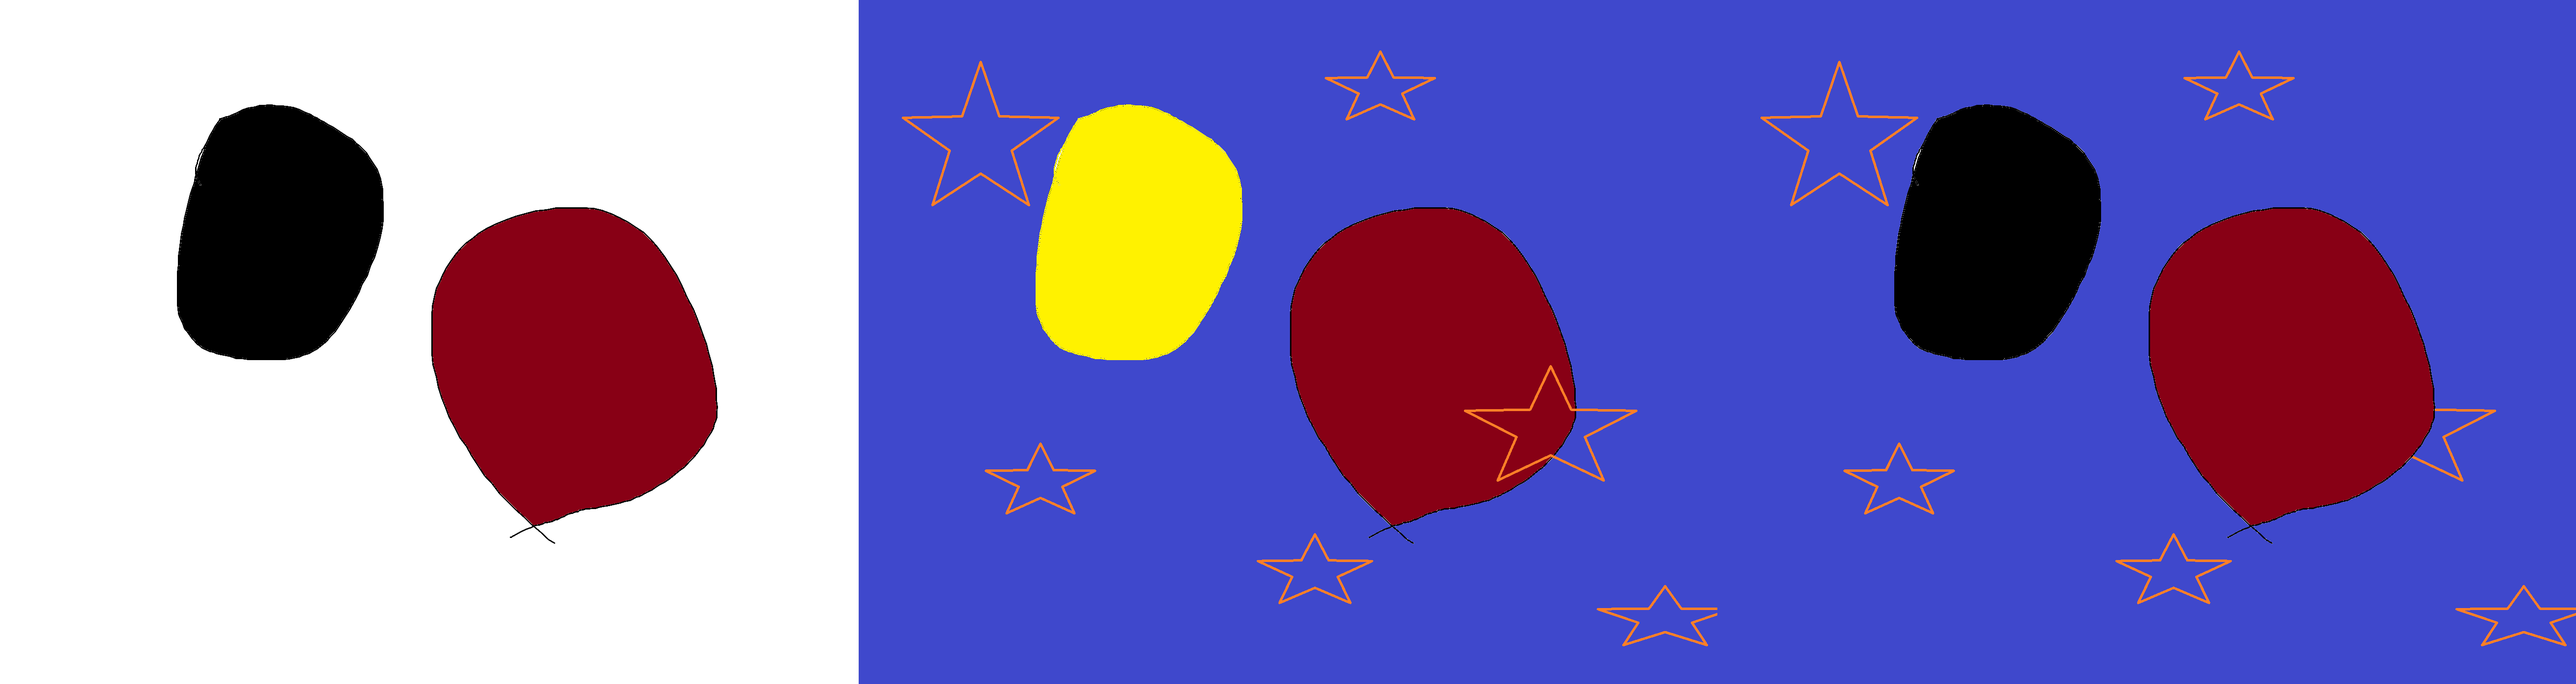
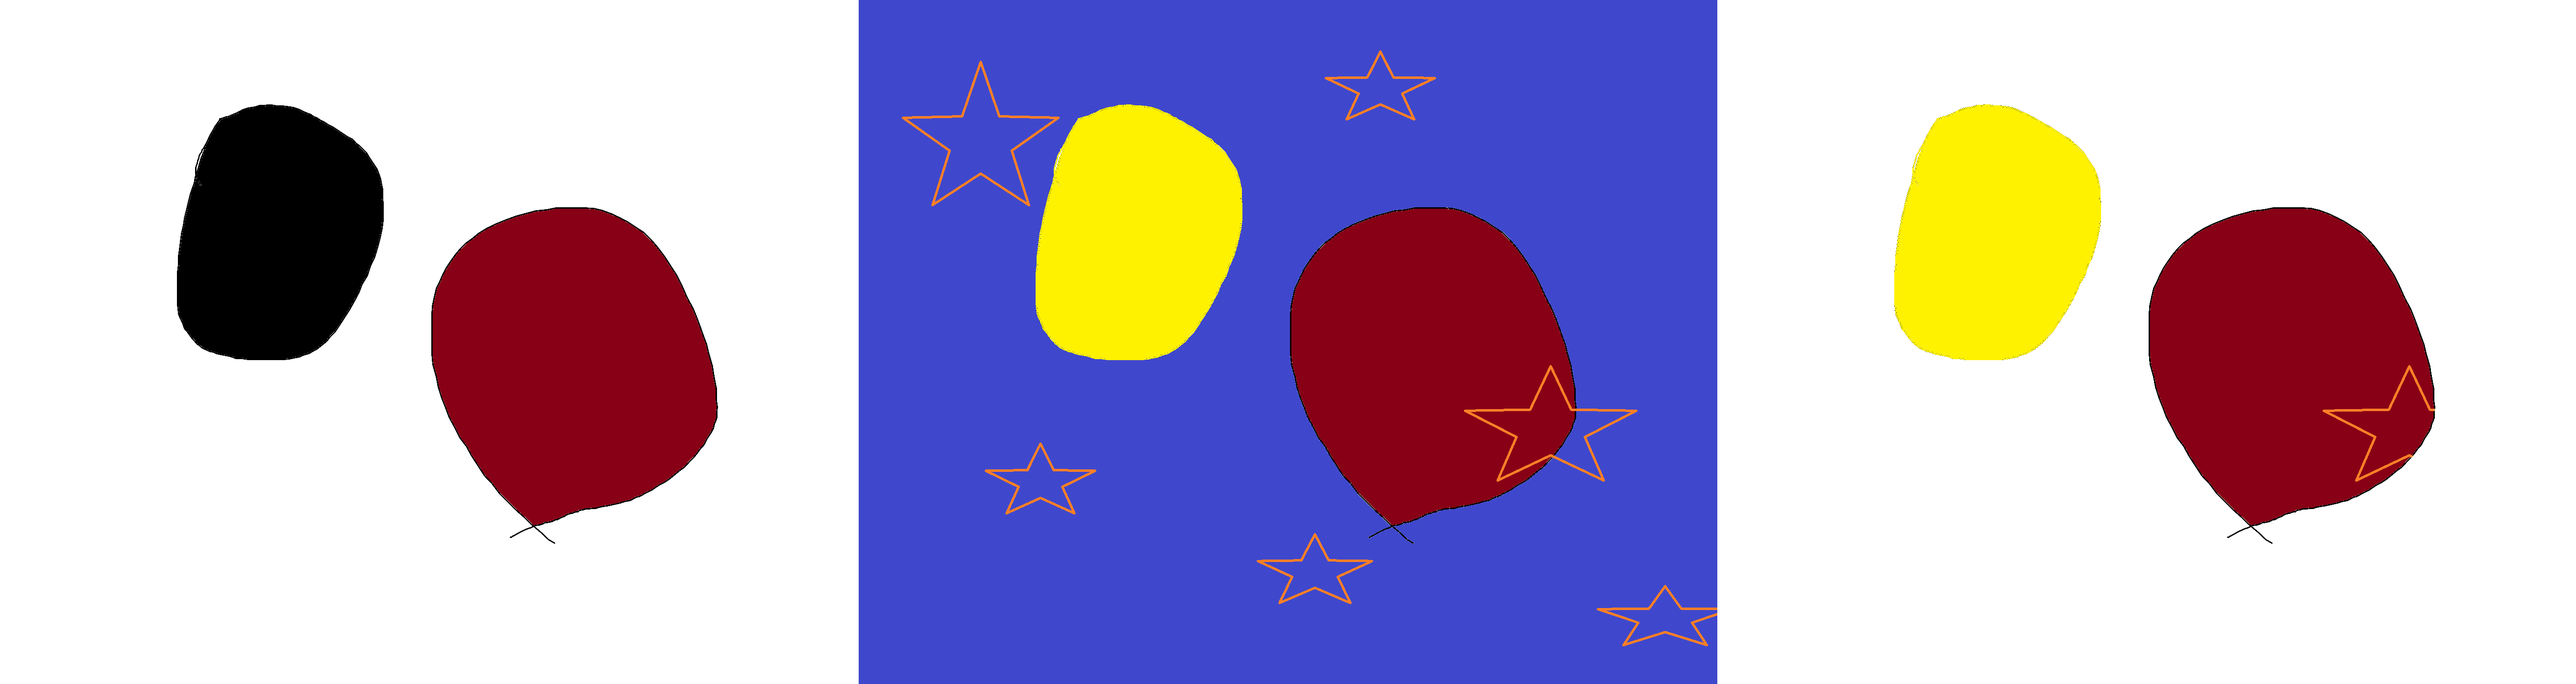
lab1

Changed region(s): [[0.6553, 0.0, 1.0, 1.0]]

diff --git a/lab1/README.md b/lab1/README.md
@@ -39,6 +39,30 @@ C(x, y) = A(x, y), если M(x, y) = 0
 
 Обе реализации получают одинаковые изображения и границы цвета. Второе изображение заранее приводится к ширине и высоте первого через `cv2.resize`. При разных пропорциях оно растягивается. Готовые результаты и маски проверяются на полное совпадение через `np.array_equal`.
 
+Реализация
+```
+def chroma_key_opencv(foreground, background, lower, upper):
+    mask = cv2.inRange(foreground, np.array(lower, dtype=np.uint8),
+                       np.array(upper, dtype=np.uint8))
+    result = foreground.copy()
+    cv2.copyTo(background, mask, result)
+    return result, mask
+
+
+def chroma_key_python(foreground, background, lower, upper):
+    height, width = foreground.shape[:2]
+    result = foreground.copy()
+    mask = np.zeros((height, width), dtype=np.uint8)
+    for y in range(height):
+        for x in range(width):
+            red, green, blue = foreground[y, x]
+            if (lower[0] <= red <= upper[0]
+                    and lower[1] <= green <= upper[1]
+                    and lower[2] <= blue <= upper[2]):
+                result[y, x] = background[y, x]
+                mask[y, x] = 255
+    return result, mask
+```
 ### запуск
 
 ```powershell
@@ -67,6 +91,10 @@ python main.py a.png b.png --lower 240 240 240 --upper 255 255 255 --repeats 5
 Слева направо: исходное изображение, изображение для подстановки, результат.
 
 ![Исходное изображение, второе изображение и результат](results/comparison.png)
+python main.py a.png b.png --lower 200 200 200 --upper 255 255 255 --repeats 1
+![Исходное изображение, второе изображение и результат](results/comparison2.png)
+python main.py a.png b.png --lower 0 0 0 --upper 255 50 50 --repeats 1
+
 
 ![Маска выбранного диапазона](results/mask.png)
 
